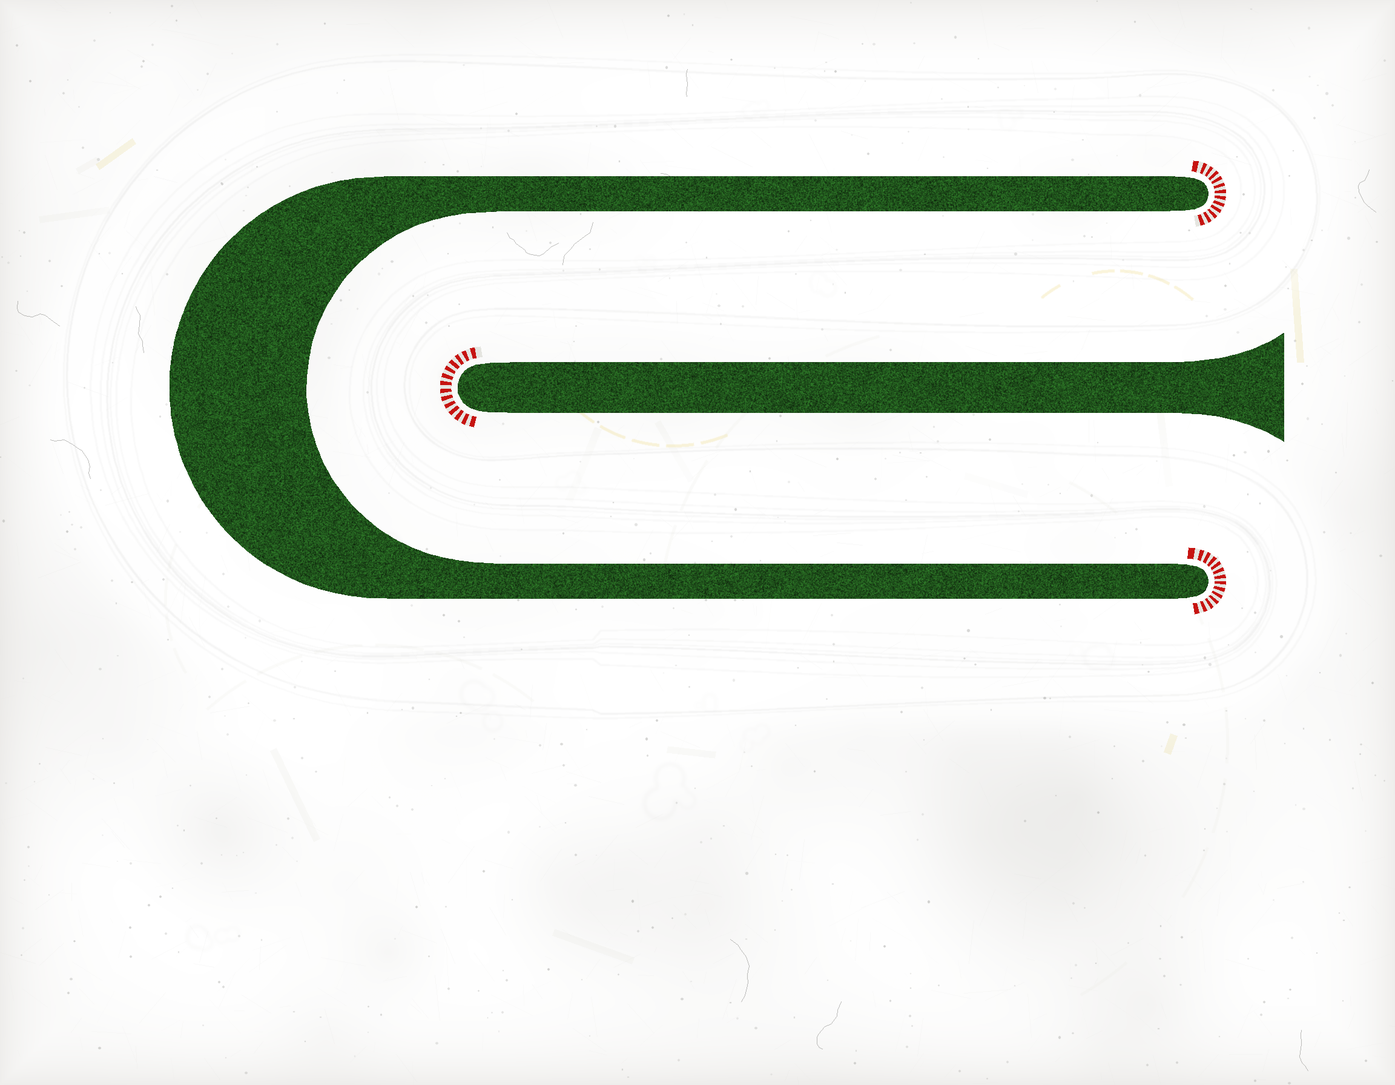
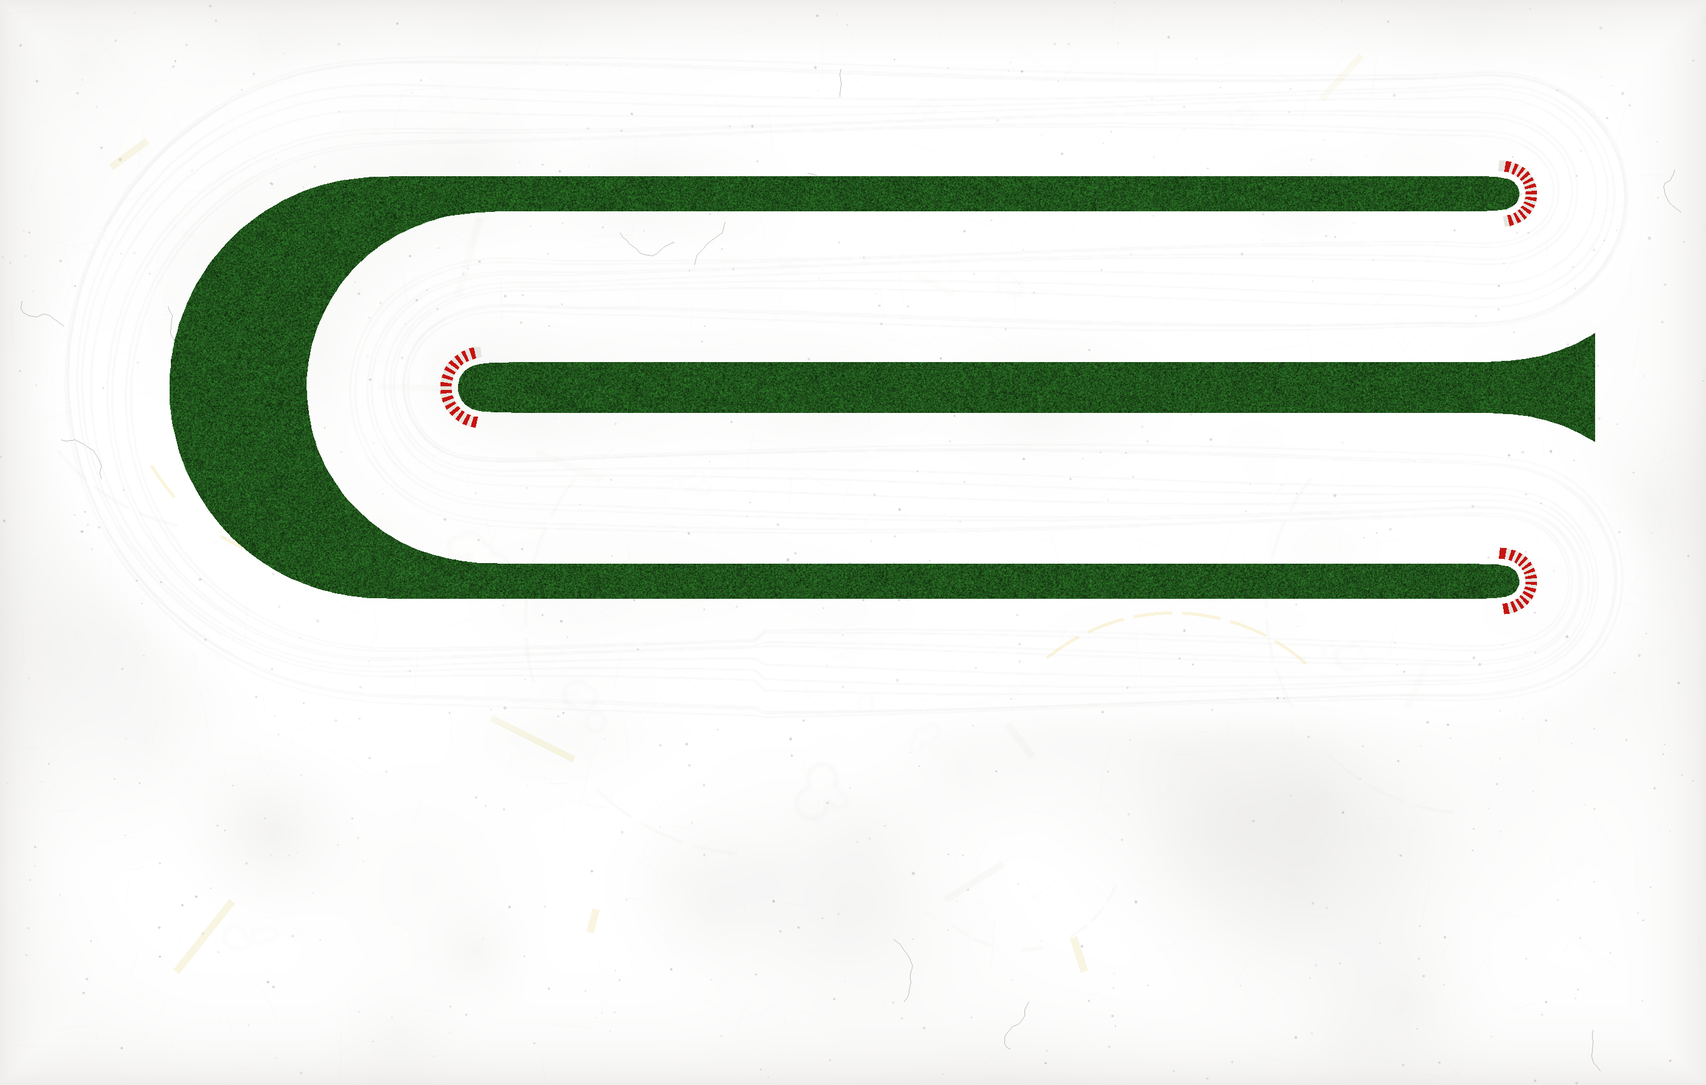
Desktop: INFIELD 8 m longer in an 11 m hall; tyres and DRIFT MASTER flags round the tracks
Claude-Session: https://claude.ai/code/session_01QkfUc2Tbeq4bUawqwEUu3K

diff --git a/desktop/scripts/Decor.cs b/desktop/scripts/Decor.cs
@@ -1,0 +1,42 @@
+// Trackside dressing, as at a club track: old tyres packed on edge along the inside of some bends, and flags of two
+// kinds round the outside of the lane (tall feather flags on poles, small banners hung in frames), red and white, with
+// DRIFT MASTER on them. All of it stands off the lane, behind the barriers: there to look at, not to hit.
+using Godot;
+using System;
+using System.Collections.Generic;
+
+namespace DriftMaster {
+  public static class Decor {
+    public static Node3D Build(Track t, Course c, Vector3 driver) {
+      var root = new Node3D { Name = "Decor" }; int n = t.N;
+      // how far a point is from the middle of the nearest piece of lane
+      double Clear(double x, double z) { double m = 1e9; for (int i = 0; i < n; i += 2) { double dx = x - t.X[i], dz = z - t.Z[i]; m = Math.Min(m, dx * dx + dz * dz); } return Math.Sqrt(m); }
+      // ---- tyres: packed side by side on edge, against the inside barrier of every other bend
+      var xf = new List<Transform3D>();
+      for (int b = 0; b < c.Bends.Count; b += 2) { var bend = c.Bends[b]; double run = 0; int last = -1;
+        for (int k = bend.a; k <= bend.b; k++) { int i = ((k % n) + n) % n; if (t.E[i] > 0.004) continue; if (last >= 0) run += t.Ds; last = i; if (run < 0.031 && xf.Count > 0 && k != bend.a) continue; run = 0;
+          double off = bend.side * (t.Hw + 0.055), x = t.X[i] + t.NX[i] * off, z = t.Z[i] + t.NZ[i] * off; if (Clear(x, z) < t.Hw + 0.045) continue;   // (where the inside of the bend is too tight for them they are left out)
+          var ty = new Vector3((float)t.TX[i], 0, (float)t.TZ[i]); var nx = new Vector3((float)t.NX[i], 0, (float)t.NZ[i]);
+          xf.Add(new Transform3D(new Basis(nx, ty, nx.Cross(ty)), new Vector3((float)x, 0.032f, (float)z))); } }
+      if (xf.Count > 0) { var mm = new MultiMesh { TransformFormat = MultiMesh.TransformFormatEnum.Transform3D, Mesh = new TorusMesh { InnerRadius = 0.017f, OuterRadius = 0.032f, Rings = 14, RingSegments = 6 }, InstanceCount = xf.Count };
+        for (int i = 0; i < xf.Count; i++) mm.SetInstanceTransform(i, xf[i]);
+        root.AddChild(new MultiMeshInstance3D { Multimesh = mm, MaterialOverride = new StandardMaterial3D { AlbedoColor = new Color(0.03f, 0.03f, 0.032f), Roughness = 0.85f }, Name = "Tyres" }); }
+      // ---- flags: round the lap at even steps, on whichever side of the lane has room, the far side from the driver by choice
+      var pole = new StandardMaterial3D { AlbedoColor = new Color(0.86f, 0.86f, 0.84f), Roughness = 0.5f };
+      StandardMaterial3D Cloth(string tex) => new StandardMaterial3D { AlbedoTexture = GD.Load<Texture2D>("res://assets/tex/" + tex + ".png"), Transparency = BaseMaterial3D.TransparencyEnum.AlphaScissor, AlphaScissorThreshold = 0.5f, CullMode = BaseMaterial3D.CullModeEnum.Disabled, Roughness = 0.8f, TextureFilter = BaseMaterial3D.TextureFilterEnum.LinearWithMipmapsAnisotropic };
+      var cloth = new[] { Cloth("feather_red"), Cloth("banner_white"), Cloth("feather_white"), Cloth("banner_red") }; int made = 0, steps = 14;
+      for (int q = 0; q < steps; q++) { int i = (q * n / steps + n / (2 * steps)) % n; if (t.E[i] > 0.004) continue; Vector3 best = Vector3.Zero; double bestD = -1;
+        foreach (int sg in new[] { -1, 1 }) { double off = sg * (t.Hw + 0.16), x = t.X[i] + t.NX[i] * off, z = t.Z[i] + t.NZ[i] * off;
+          if (Clear(x, z) < t.Hw + 0.13 || Math.Abs(x) > t.HallX - 0.25 || Math.Abs(z) > t.HallZ - 0.25) continue; double d = new Vector3((float)x, 0, (float)z).DistanceTo(driver); if (d < 1.6) continue; if (d > bestD) { bestD = d; best = new Vector3((float)x, 0, (float)z); } }
+        if (bestD < 0) continue; int kind = made % 4; made++; var at = new Node3D { Position = best }; at.LookAt(new Vector3(driver.X, 0, driver.Z), Vector3.Up, true); root.AddChild(at);   // each faces the driver, so it can be read
+        void Box(Vector3 size, Vector3 pos) => at.AddChild(new MeshInstance3D { Mesh = new BoxMesh { Size = size }, MaterialOverride = pole, Position = pos });
+        void Quad(Vector2 size, Vector3 pos, Material m) => at.AddChild(new MeshInstance3D { Mesh = new QuadMesh { Size = size }, MaterialOverride = m, Position = pos, CastShadow = GeometryInstance3D.ShadowCastingSetting.Off });
+        if (kind % 2 == 0) { // a feather flag: a thin pole 45 cm tall on a small foot, the cloth down one side of it
+          Box(new Vector3(0.05f, 0.006f, 0.05f), new Vector3(0, 0.003f, 0)); Box(new Vector3(0.004f, 0.45f, 0.004f), new Vector3(0, 0.225f, 0)); Quad(new Vector2(0.095f, 0.38f), new Vector3(0.0495f, 0.255f, 0.001f), cloth[kind]); }
+        else { // a banner: two posts and two rails, the cloth hung between them
+          foreach (float sx in new[] { -0.045f, 0.045f }) { Box(new Vector3(0.006f, 0.24f, 0.006f), new Vector3(sx, 0.12f, 0)); Box(new Vector3(0.03f, 0.005f, 0.04f), new Vector3(sx, 0.0025f, 0)); }
+          Box(new Vector3(0.096f, 0.005f, 0.005f), new Vector3(0, 0.237f, 0)); Box(new Vector3(0.096f, 0.005f, 0.005f), new Vector3(0, 0.045f, 0)); Quad(new Vector2(0.066f, 0.185f), new Vector3(0, 0.141f, 0.001f), cloth[kind]); } }
+      return root;
+    }
+  }
+}

diff --git a/desktop/scripts/Compete.cs b/desktop/scripts/Compete.cs
@@ -16,8 +16,8 @@ namespace DriftMaster {
     sealed class Rec { public readonly List<float> F = new(); public double Mark; public int Body; public int Count => F.Count / GF; }   // Mark: the lap time (s) or the run's score
     Rec _ghostLap, _ghostRun, _rec; bool _recOn, _ghostOn = true, _ghostPlay; double _recAcc, _ghostT; Track _t2; CarPhysics _ghostCar; CarView _ghostView; int _ghostBody = -1;
     string GhostFile(bool run) => $"user://ghost_{Tracks[TrackIdx % Tracks.Length].file}_{(run ? "run" : "lap")}.bin";
-    void SaveGhost(Rec r, bool run) { if (_shot != null && CompTest == null) return; using var f = FileAccess.Open(GhostFile(run), FileAccess.ModeFlags.Write); if (f == null) return; f.Store32(2); f.StoreDouble(r.Mark); f.Store32((uint)r.Body); f.Store32((uint)r.F.Count); foreach (var v in r.F) f.StoreFloat(v); }
-    Rec LoadGhost(bool run) { if (!FileAccess.FileExists(GhostFile(run))) return null; using var f = FileAccess.Open(GhostFile(run), FileAccess.ModeFlags.Read); if (f == null || f.Get32() != 2) return null;   // (2: since the layouts moved 1 m in the hall)
+    void SaveGhost(Rec r, bool run) { if (_shot != null && CompTest == null) return; using var f = FileAccess.Open(GhostFile(run), FileAccess.ModeFlags.Write); if (f == null) return; f.Store32(3); f.StoreDouble(r.Mark); f.Store32((uint)r.Body); f.Store32((uint)r.F.Count); foreach (var v in r.F) f.StoreFloat(v); }
+    Rec LoadGhost(bool run) { if (!FileAccess.FileExists(GhostFile(run))) return null; using var f = FileAccess.Open(GhostFile(run), FileAccess.ModeFlags.Read); if (f == null || f.Get32() != 3) return null;   // (2: since the layouts moved 1 m in the hall)
       var r = new Rec { Mark = f.GetDouble(), Body = (int)f.Get32() }; uint n = f.Get32(); if (n == 0 || n % GF != 0 || n > 2000000) return null; for (uint i = 0; i < n; i++) r.F.Add(f.GetFloat()); return r; }
     void RecStart() { _rec = new Rec { Body = _body }; _recOn = true; _recAcc = GDt; }
     void RecStep(double dt) { if (!_recOn) return; _recAcc += dt; if (_recAcc < GDt) return; _recAcc -= GDt; if (_rec.Count > 60 * 180) { _recOn = false; return; }   // (three minutes: not a lap)
@@ -29,7 +29,7 @@ namespace DriftMaster {
       if (show && i >= g.Count - 1) { show = false; _ghostPlay = false; }
       if (!show) { if (_ghostView != null) _ghostView.Visible = false; return; }
       if (_ghostView == null || _ghostBody != g.Body) { _ghostView?.QueueFree(); _ghostBody = g.Body; _ghostView = new CarView { Body = g.Body, Ghost = true }; AddChild(_ghostView); }
-      if (_ghostCar == null) { var td = Tracks[TrackIdx % Tracks.Length]; _t2 = Track.FromJson(FileAccess.GetFileAsString("res://assets/" + td.file + ".json"), td.z0 + Hall.Back / 2, 4.5, 2.5 + Hall.Back / 2); _ghostCar = new CarPhysics { T = _t2 }; }
+      if (_ghostCar == null) { var td = Tracks[TrackIdx % Tracks.Length]; _t2 = Track.FromJson(FileAccess.GetFileAsString("res://assets/" + td.file + ".json"), td.z0 + Hall.Back / 2, Hall.HalfX, 2.5 + Hall.Back / 2); _ghostCar = new CarPhysics { T = _t2 }; }
       float f = (float)(ft - i); int a = i * GF, b = a + GF; float L(int k) => g.F[a + k] + (g.F[b + k] - g.F[a + k]) * f; float A(int k) => g.F[a + k] + Mathf.AngleDifference(g.F[a + k], g.F[b + k]) * f;
       _ghostCar.X = L(0); _ghostCar.Z = L(1); _ghostCar.Y = L(2); _ghostCar.Hd = A(3); _ghostCar.Steer = L(4); _ghostCar.Roll = L(5); _ghostCar.Pitch = L(6); _ghostCar.Spin = L(7); _ghostCar.SpinF = L(8); _t2.Idx = (int)g.F[a + 9]; _ghostCar.Air = false;
       _ghostView.Visible = true; _ghostView.Pose(_ghostCar, _t2);

diff --git a/desktop/tools/make_track.py b/desktop/tools/make_track.py
@@ -2,22 +2,22 @@
 """Lays out the INFIELD track and writes assets/infield.json (same form as hillside.json: 480 points along the
    centre of the lane, evenly spaced, with the lane's half width).
    After a photo of a club track: an oval round the outside with a twisting S inside it, turf between the lanes.
-   It fits the same 9.0 x 5.0 m hall: the long straight runs past the pilot, a hairpin at the right-hand end turns
+   It is 2 m longer than the first version (the hall was widened to 11 m for it): the long straight runs past the pilot, a hairpin at the right-hand end turns
    back into the infield, an S through two more hairpins, then the far straight and the left-hand end bring it home."""
 import json, sys, numpy as np
 from scipy.ndimage import gaussian_filter1d
-N = 480; HW = 0.45
+N = 600; HW = 0.45
 def line(a, b, n=200): t = np.linspace(0, 1, n, endpoint=False)[:, None]; return np.array(a) + (np.array(b) - np.array(a)) * t
 def arc(c, r, a0, a1, n=200): a = np.radians(np.linspace(a0, a1, n, endpoint=False)); return np.c_[c[0] + r * np.cos(a), c[1] + r * np.sin(a)]
 path = np.vstack([
-    line((-2.05, 1.85), (3.2, 1.85)),            # the long straight, past the pilot
-    arc((3.2, 1.25), 0.6, 90, -90),              # right-hand end: hairpin into the infield
-    line((3.2, 0.65), (-1.4, 0.65)),             # back along the middle
-    arc((-1.4, 0.0), 0.65, 90, 270),             # the S: hairpin
-    line((-1.4, -0.65), (3.2, -0.65)),           # and out again
-    arc((3.2, -1.25), 0.6, 90, -90),             # hairpin onto the far straight
-    line((3.2, -1.85), (-2.05, -1.85)),          # the far straight
-    arc((-2.05, 0.0), 1.85, 270, 90),            # the wide left-hand end, all the way round
+    line((-3.05, 1.85), (4.2, 1.85)),            # the long straight, past the pilot
+    arc((4.2, 1.25), 0.6, 90, -90),              # right-hand end: hairpin into the infield
+    line((4.2, 0.65), (-2.4, 0.65)),             # back along the middle
+    arc((-2.4, 0.0), 0.65, 90, 270),             # the S: hairpin
+    line((-2.4, -0.65), (4.2, -0.65)),           # and out again
+    arc((4.2, -1.25), 0.6, 90, -90),             # hairpin onto the far straight
+    line((4.2, -1.85), (-3.05, -1.85)),          # the far straight
+    arc((-3.05, 0.0), 1.85, 270, 90),            # the wide left-hand end, all the way round
 ])
 # even steps, the joints between straights and arcs eased (a car cannot change curvature in no distance)
 d = np.concatenate([[0], np.cumsum(np.hypot(*np.diff(np.vstack([path, path[:1]]), axis=0).T))]); L = d[-1]
@@ -26,7 +26,7 @@ sig = 0.14 / (L / m); px = gaussian_filter1d(px, sig, mode='wrap'); pz = gaussia
 d = np.concatenate([[0], np.cumsum(np.hypot(np.diff(np.append(px, px[0])), np.diff(np.append(pz, pz[0]))))]); L = d[-1]
 s = np.linspace(0, L, N, endpoint=False); X = np.interp(s, d, np.append(px, px[0])); Z = np.interp(s, d, np.append(pz, pz[0]))
 i0 = int(np.argmin((X + 0.6) ** 2 + (Z - 1.9) ** 2))                      # the line: on the long straight, in front of the pilot
-X = np.roll(X, -i0); Z = np.roll(Z, -i0); si = N - 24
+X = np.roll(X, -i0); Z = np.roll(Z, -i0); si = N - 30
 X2, Z2 = np.append(X, X[:2]), np.append(Z, Z[:2])
 out = {'name': 'INFIELD', 'hw': HW, 'ds': L / N, 'n': N, 'x': [round(float(v), 5) for v in X], 'z': [round(float(v), 5) for v in Z], 'e': [0.0] * N,
        'start': [float(X[si]), float(Z[si]), float(np.arctan2(X2[si + 1] - X2[si - 1], Z2[si + 1] - Z2[si - 1]))],

diff --git a/desktop/tools/make_flags.py b/desktop/tools/make_flags.py
@@ -1,0 +1,26 @@
+#!/usr/bin/env python3
+"""Draws the trackside flags (our own artwork): two kinds, each in red and in white, with DRIFT MASTER down them.
+   banner_*.png: a small upright banner that hangs in a frame.   feather_*.png: a tall feather flag on a pole (its
+   shape is in the alpha).     usage: make_flags.py <out dir>      Lettering: Saira Extra Bold Italic (OFL, tools/fonts)."""
+import sys, os
+from PIL import Image, ImageDraw, ImageFont
+out = sys.argv[1]; here = os.path.dirname(os.path.abspath(__file__)); font = lambda s: ImageFont.truetype(os.path.join(here, 'fonts', 'Saira-ExtraBoldItalic.ttf'), s)
+RED, WHITE, DARK = (200, 22, 30, 255), (240, 240, 236, 255), (24, 24, 28, 255)
+def down(text, size, fill, w, h):   # the words running up the flag, as on a real one
+    f = font(size); bb = ImageDraw.Draw(Image.new('L', (4, 4))).textbbox((0, 0), text, font=f); t = Image.new('RGBA', (bb[2] - bb[0] + 8, bb[3] - bb[1] + 8), (0, 0, 0, 0))
+    ImageDraw.Draw(t).text((4 - bb[0], 4 - bb[1]), text, font=f, fill=fill); t = t.rotate(90, expand=True)
+    if t.size[1] > h: t = t.resize((max(1, int(t.size[0] * h / t.size[1])), h), Image.LANCZOS)
+    if t.size[0] > w: t = t.resize((w, max(1, int(t.size[1] * w / t.size[0]))), Image.LANCZOS)
+    return t
+for name, bg, fg in (('red', RED, WHITE), ('white', WHITE, RED)):
+    W, H = 128, 384; im = Image.new('RGBA', (W, H), bg); d = ImageDraw.Draw(im); d.rectangle((0, 0, W - 1, 22), fill=fg); d.rectangle((0, H - 23, W - 1, H - 1), fill=fg)
+    t = down('DRIFT MASTER', 84, fg, W - 34, H - 76); im.alpha_composite(t, ((W - t.size[0]) // 2, (H - t.size[1]) // 2)); im.save(os.path.join(out, f'banner_{name}.png'), optimize=True)
+    W, H = 160, 640; im = Image.new('RGBA', (W, H), (0, 0, 0, 0)); d = ImageDraw.Draw(im)
+    # the feather: straight down the pole (left), bellied out to the right, round over the top, cut away at the foot
+    pts = [(0, 0)] + [(int(W * (0.18 + 0.8 * min(1, (y / 90) ** 0.6)) * (1 - 0.22 * max(0, (y - 110) / (H - 110)))), y) for y in range(0, H - 40, 6)] + [(int(W * 0.08), H - 1), (0, H - 1)]
+    d.polygon(pts, fill=fg); m = im.split()[3]; top = Image.new('RGBA', (W, H), bg); cut = Image.new('L', (W, H), 0); ImageDraw.Draw(cut).polygon([(0, 0), (W, 0), (W, 250), (0, 190)], fill=255)
+    im.paste(top, (0, 0), Image.composite(cut, Image.new('L', (W, H), 0), m)); d = ImageDraw.Draw(im)
+    for k in range(3): d.polygon([(22 + k * 30, 150), (52 + k * 30, 60), (66 + k * 30, 60), (36 + k * 30, 150)], fill=fg)     # three slashes in the top field
+    t = down('DRIFT MASTER', 72, bg if bg != WHITE else RED, 84, 350); lay = Image.new('RGBA', (W, H), (0, 0, 0, 0)); lay.alpha_composite(t, (14, 262)); im = Image.composite(Image.alpha_composite(im, lay), im, m); im.putalpha(m)
+    im.save(os.path.join(out, f'feather_{name}.png'), optimize=True)
+print('ok')

diff --git a/desktop/scripts/Hall.cs b/desktop/scripts/Hall.cs
@@ -25,7 +25,7 @@ namespace DriftMaster {
       m.SetShaderParameter("wear", tx(t.Wear + ".png")); m.SetShaderParameter("wear_rough", tx(t.Wear + "_rough.jpg"));
       // the bump map's slope over the whole floor (about 8 mm a point), for the reflections. Tile joints and steps are left
       // out: they are too fine for this grid, and the joints are drawn on the tiles already
-      { const int W = 1152, H = 896; var px = new byte[W * H * 2]; double sx = t.HallX * 2 / W, sz = t.HallZ * 2 / H; var row0 = new double[W + 1]; var row1 = new double[W + 1];
+      { const int W = 1408, H = 896; var px = new byte[W * H * 2]; double sx = t.HallX * 2 / W, sz = t.HallZ * 2 / H; var row0 = new double[W + 1]; var row1 = new double[W + 1];
         for (int i = 0; i <= W; i++) row0[i] = t.BumpBase(-t.HallX + i * sx, -t.HallZ, false);
         for (int j = 0; j < H; j++) { for (int i = 0; i <= W; i++) row1[i] = t.BumpBase(-t.HallX + i * sx, -t.HallZ + (j + 1) * sz, false);
           for (int i = 0; i < W; i++) { double gx = (row0[i + 1] - row0[i]) / sx, gz = (row1[i] - row0[i]) / sz;
@@ -38,6 +38,8 @@ namespace DriftMaster {
 
     /// clear floor behind the layouts on the driver's side (+z), in metres: room to stand back from the track
     public const double Back = 2.0;
+    /// half the hall's length (x), in metres: 11 m in all
+    public const double HalfX = 5.5;
     public static Node3D Build(Track t) {
       var root = new Node3D { Name = "Hall" };
       float hx = (float)t.HallX, hz = (float)t.HallZ;

diff --git a/desktop/scripts/Main.cs b/desktop/scripts/Main.cs
@@ -52,7 +52,7 @@ namespace DriftMaster {
       if (_shot == null) LoadOptions();
       // the layouts share one small hall (9.0 x 5.0 m). HILLSIDE sat at z = -4.9..-1.9 in the web version's warehouse and is centred here
       var td = Tracks[TrackIdx % Tracks.Length];
-      _t = Track.FromJson(FileAccess.GetFileAsString("res://assets/" + td.file + ".json"), td.z0 + Hall.Back / 2, 4.5, 2.5 + Hall.Back / 2); _t.Name = td.name; _t.Wear = td.wear; _t.Boards = td.boards;
+      _t = Track.FromJson(FileAccess.GetFileAsString("res://assets/" + td.file + ".json"), td.z0 + Hall.Back / 2, Hall.HalfX, 2.5 + Hall.Back / 2); _t.Name = td.name; _t.Wear = td.wear; _t.Boards = td.boards;
       if (!_bare) AddChild(Hall.Build(_t)); else { GetViewport().TransparentBg = true; }
       BuildLights();
       if (!_bare) { // the driver's stand: a low platform with a step up, in the corner behind the track
@@ -66,6 +66,7 @@ namespace DriftMaster {
       BuildOnBoard();
       _audio = new CarAudio(); AddChild(_audio); _car.OnBump = k => { _audio.Bump(k); if (_comp != 0 && _phase == 1) _jP?.Tap(k); }; _audio.Volume = _vol0; _audio.Motor = _motor0; ApplySetup();
       BuildHud(); BuildCompetition();
+      if (!_bare) AddChild(Decor.Build(_t, _course, DriverEye));
       _ghostLap = LoadGhost(false); _ghostRun = LoadGhost(true);
       if (CompTest == "solo" || CompTest == "solo2") StartSolo(); else if (CompTest == "park") Park();
       if (_menuAt != null) { _pause.Open(true); _pause.Goto(_menuAt[0], _menuAt[1]); }

diff --git a/desktop/tools/make_textures.py b/desktop/tools/make_textures.py
@@ -63,7 +63,7 @@ simple('Chipboard004', 'board.jpg', 1024)
 # floor_wear.png is colour + how much of it covers the tile; floor_wear_rough.jpg shifts the gloss (grey = no change).
 import json, os, math
 from PIL import ImageDraw
-HX, HZ, PXM = 4.5, 3.5, 256   # the hall is 9 x 7 m: the 9 x 5 m the layouts fill, and 2 m of clear floor on the driver's side (+z)
+HX, HZ, PXM = 5.5, 3.5, 256   # the hall is 11 x 7 m: the 11 x 5 m the layouts may fill, and 2 m of clear floor on the driver's side (+z)
 Wp, Hp = int(HX * 2 * PXM), int(HZ * 2 * PXM)
 rr = lambda a, b: a + wr.random() * (b - a)
 def over(mask, col, rough=0.0):

diff --git a/desktop/README.md b/desktop/README.md
@@ -51,7 +51,8 @@ Open the `desktop` folder in Godot 4.6 (.NET edition) and press Play, or export 
 - **Tyres**: the sidewall lettering reads DRIFTMASTER (`tools/make_stickers.py`), in place of the web model's strip.
 - **Training** (`scripts/Judging.cs`, `scripts/Compete.cs`, TRAINING page): solo only. A judged run is one lap from the start line, scored like solo qualifying (tanso): line 40 (clips and zones on a natural line; reaching for a clip halves it), angle 40 (depth 25, consistency 15), style 20 (fluidity 7, commitment 7, initiation 6) and up to 5 bonus for initiating before the first bend's initiation line; speed earns nothing by itself. Deductions for straightening up in a bend and for wall taps; a spin or stop scores zero. The course marks are set out from each track's bends: cones at inner clipping points, yellow dashes for outer zones. **Ghost**: a see-through copy of your own car replays a recording, your fastest lap in free practice (from the line) and your highest-scoring run in a judged run (from the start); a better lap or run replaces it. Recordings are 60 frames a second and kept per track in `user://ghost_*.bin`. (An earlier rival car and tandem battles were taken out.)
 - **Parking bay**: K (or TRAINING > PARK THE CAR) takes the car off the track into a marked bay by the driver's stand; R returns it to the start line.
-- **The hall and the driver**: 9 x 7 m: the 9 x 5 m the layouts fill plus 2 m of clear floor on the driver's side (`Hall.Back`). The driver stands on a low stand at the back of that floor, in front of the middle of the layout, eyes 1.9 m up (`Main.DriverEye`), and the main camera sees like a person from there: a steady field of view (58 degrees, easing to 34 far off) with the gaze about half a second ahead of the car. The sound is heard from the same place.
+- **The hall and the driver**: 11 x 7 m (`Hall.HalfX`): 11 x 5 m for the layouts plus 2 m of clear floor on the driver's side (`Hall.Back`). The driver stands on a low stand at the back of that floor, in front of the middle of the layout, eyes 1.9 m up (`Main.DriverEye`), and the main camera sees like a person from there: a steady field of view (58 degrees, easing to 34 far off) with the gaze about half a second ahead of the car. The sound is heard from the same place.
+- **Trackside dressing** (`scripts/Decor.cs`, `tools/make_flags.py`): tyres packed on edge inside every other bend where there is room, and fourteen flag positions round each lap, alternating feather flags and framed banners in red and white with DRIFT MASTER on them, each turned to face the driver. They stand off the lane and are not hit.
 - **RC radio** (`scripts/Radio.cs`, CONTROLLER page): a real pistol-grip transmitter plugged into the PC drives the car. The game finds the steering and throttle channels by watching which one moves, learns centre and end points, and can reverse either. Wheel and trigger act one to one; pushing the trigger brakes, then reverses.
 - **Transmitter on screen** (`scripts/Transmitter.cs`): a pistol-grip radio in the bottom right corner (our own model, built from plain shapes) whose wheel and trigger follow the inputs, from a radio, a gamepad or the keys. Can be switched off.
 - **Windscreen** (`assets/glass.gdshader`): a sun strip, a band of darker tint across the top of the windscreen (found in the glass mesh of each body), with the DRIFT MASTER banner on it.

diff --git a/desktop/CHANGELOG.md b/desktop/CHANGELOG.md
@@ -2,6 +2,8 @@
 
 ## Changelog (this build)
 
+- INFIELD is 8 m longer (39 m a lap, was 31 m): its straights run 2 m further, and the hall is 2 m wider for it (11 x 7 m).
+- Trackside dressing: old tyres packed on edge at the tips of the infield islands and inside some bends, and DRIFT MASTER flags of two kinds (tall feather flags, small framed banners) in red and white round both layouts.
 - Neon reworked: LED strips under the edges of the chassis, a tight pool of light on the floor round the car's outline, lit wheel arches, a glow along the bottom of the body, and the cabin lit from inside.
 - The driver's view no longer jolts when the car hits a barrier; only a trace of the knock shows.
 - The hall is 2 m deeper on the driver's side (9 x 7 m; the layouts are unchanged), and the driver stands back from the track on a low stand in front of the middle of it, eyes 1.9 m up. The driver's camera sees like a person: a steady natural field of view that no longer zooms to hold the car's size, with the gaze leading the car so the track coming up is in view. The listening position is there too.
